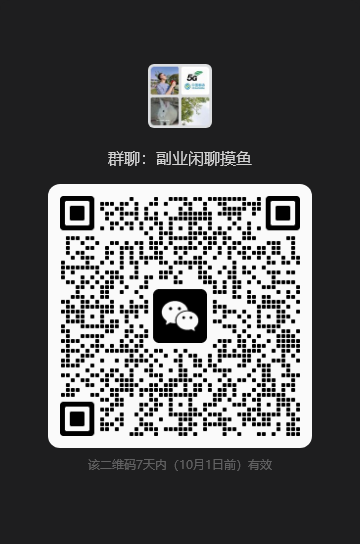
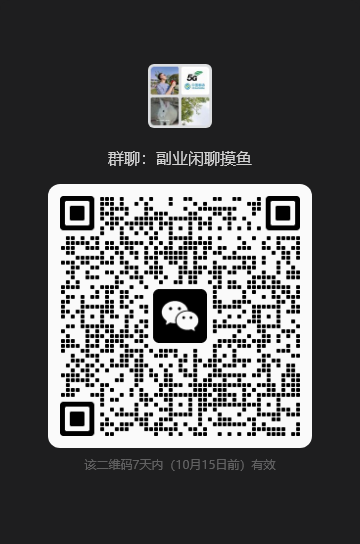
feat: 更新二维码

diff --git a/readme.md b/readme.md
@@ -29,6 +29,6 @@
 
 - 我个人微信：***wushu5068***  添加请备注：***JY***，否则不会通过。
 
-![二维码](./img/qrcode.jpg)
+![二维码](./img/qrcode.png)
 ![二维码](./img/群聊：副业闲聊摸鱼.png)
 
